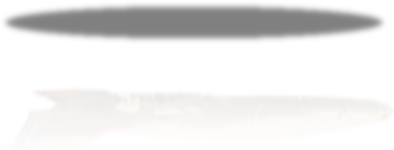
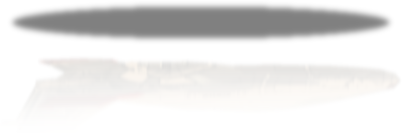
retrovega: smaller ships get smaller landing legs (full size from 24 m; the Redeemer's at 74%)
Claude-Session: https://claude.ai/code/session_019Nres1uExFzYT7oEr38LtM

Changed region(s): [[0.0, 0.0602, 0.9746, 0.3308], [0.0914, 0.4511, 0.9442, 0.6015]]

diff --git a/retrovega/tools/places.py b/retrovega/tools/places.py
@@ -62,8 +62,10 @@ LAUNCH = {'spool_ms': 600, 'lift_ms': 400, 'lift_px': 4, 'run_ms': 900}
 # the landing legs, in screen pixels: the least strut showing under a ship's
 # lowest point, the drawn leg's parts (a painted leg is scaled to the foot's
 # width), the least gap between two legs, how far a leg may move from its spot
-# to find the body
-SLED = {'strut_min': 4, 'foot': (84, 16), 'strut': 14, 'saddle': 66, 'apart': 60, 'reach': 90}
+# to find the body, the ship length (metres) from which legs are full size
+# (shorter ships get smaller legs, down to 60%)
+SLED = {'strut_min': 4, 'foot': (84, 16), 'strut': 14, 'saddle': 66, 'apart': 60, 'reach': 90,
+        'full_at': 24.0}
 RENDER = 1280      # the size the fighters are rendered at before scaling down
 BODY = 0.22        # a ship's body: its hull within this much of its half-span of the centre line
 
@@ -220,11 +222,14 @@ def lit(img, light):
     return Image.fromarray(np.clip(a, 0, 255).astype(np.uint8), 'RGBA')
 
 
-def fighter(ship, cfg, frame, cache, legs, rerender=False):
+def fighter(ship, cfg, frame, cache, legs_at, rerender=False):
     """A fighter on the pad: sprite, position, under layer, engine points, and
-    the legs it stands on (a style from leg_styles)."""
+    the legs it stands on: legs_at(foot width) gives its style at that size."""
     above, below, info = render_views(ship, cfg, cache, rerender)
     bb = above.getbbox()
+    length = (bb[2] - bb[0]) * info['metres']
+    leg_width = round(SLED['foot'][0] * min(1.0, max(0.6, length / SLED['full_at'])))
+    legs = legs_at(leg_width)
     s = cfg['metre'] * frame.k * info['metres']
     size = (round((bb[2] - bb[0]) * s), round((bb[3] - bb[1]) * s))
     sprite = hard(lit(premul_resize(above.crop(bb), size), cfg['light']))
@@ -239,6 +244,7 @@ def fighter(ship, cfg, frame, cache, legs, rerender=False):
     engines = nozzles(sprite, [(ey - bb[1]) * s for _ex, ey, _r in info['engines']])
     under, ux, uy = under_layer(below, s, x, size[0], cx, cy, deck, cfg['light'])
     return {'sprite': sprite, 'x': x, 'y': y, 'under': under, 'ux': ux, 'uy': uy, 'engines': engines,
+            'legs': legs, 'leg_width': leg_width,
             'sleds': sled_spots(sprite, body(ship, cfg, bb, size), x, y,
                                 [frame.xy(sx, 0)[0] for sx in cfg['sleds'] + cfg.get('more_sleds', {}).get(ship, [])],
                                 legs)}
@@ -285,24 +291,30 @@ def sled_spots(sprite, body, x, y, want, legs):
     return spots
 
 
-def leg_styles(light, src):
+def leg_styles(light, src, width=SLED['foot'][0]):
     """The landing legs, by style: each painted one in SRC/legs/STYLE.png
     (side on, transparent or white around it), or a drawn placeholder,
     'drawn', when there are none.  A style is its three parts the engine
     stacks (the foot on the deck, the strut repeated to the height it needs,
     the saddle under the hull, all the same width), where the strut's middle
     is (axis), how far down the saddle the hull rests (seat) and the span of
-    the saddle's top about the axis (top)."""
+    the saddle's top about the axis (top).  width is the foot's."""
     folder = os.path.join(src, 'legs')
     names = sorted(f[:-4] for f in os.listdir(folder) if f.endswith('.png')) if os.path.isdir(folder) else []
     styles = {}
     for name in names or ['drawn']:
-        parts = painted_leg(os.path.join(folder, name + '.png')) if names else drawn_leg()
+        if names:
+            parts = painted_leg(os.path.join(folder, name + '.png'), width)
+        else:
+            k = width / SLED['foot'][0]
+            parts = [premul_resize(p, (max(1, round(p.size[0] * k)), max(1, round(p.size[1] * k))))
+                     for p in drawn_leg()]
         parts = [hard(lit(p, [c / max(light) for c in light])) for p in parts]
         strut = np.nonzero(np.asarray(parts[1])[0, :, 3])[0]
         axis = int(round((strut[0] + strut[-1]) / 2))
         sa = np.asarray(parts[2])[..., 3] > 0
-        top = np.nonzero(sa[:3].any(axis=0))[0]
+        first = int(np.argmax(sa.any(axis=1)))
+        top = np.nonzero(sa[first:first + 3].any(axis=0))[0]
         styles[name] = {'parts': parts, 'axis': axis, 'seat': seat(sa, axis),
                         'top': (int(top[0]) - axis, int(top[-1]) - axis)}
     return styles
@@ -349,8 +361,8 @@ def drawn_leg():
             for p in (outline(foot), strut, outline(saddle))]
 
 
-def painted_leg(path):
-    """Slice a painted leg, scaled so its foot is SLED['foot'] wide: the
+def painted_leg(path, width):
+    """Slice a painted leg, scaled so its foot is width pixels wide: the
     strut is the longest run of rows at its narrowest width; the rows below
     are the foot, those above the saddle."""
     img = Image.open(path).convert('RGBA')
@@ -365,11 +377,14 @@ def painted_leg(path):
     img = img.crop(img.getbbox())
     rows = (np.asarray(img)[..., 3] > 0).sum(axis=1)
     foot = rows[-max(1, len(rows) // 10):].max()     # the widest row of the bottom tenth
-    k = SLED['foot'][0] / foot
+    k = width / foot
     img = premul_resize(img, (round(img.size[0] * k), round(img.size[1] * k)))
     a = np.asarray(img)[..., 3] >= 128
-    widths = a.sum(axis=1)
-    narrow = (widths > 0) & (widths <= widths[widths > 0].min() + 2)
+    # each row's extent, edge to edge (a cradle's top, two end blocks, is wide)
+    has = a.any(axis=1)
+    widths = np.where(has, a.shape[1] - np.argmax(a[:, ::-1], axis=1) - np.argmax(a, axis=1), 0)
+    narrow = has & (widths <= widths[has].min() + 2)
+    narrow[0] = narrow[-1] = False
     runs, start = [], None
     for y in range(len(narrow) + 1):
         if y < len(narrow) and narrow[y]:
@@ -556,21 +571,37 @@ def build(key, cfg, out, cache, rerender=False, log=print):
     ships = {}
     if 'fighter' in cfg:
         fc = cfg['fighter']
-        styles = leg_styles(fc['light'], src)
+        sizes = {}
+
+        def legs_at(width):
+            if width not in sizes:
+                sizes[width] = leg_styles(fc['light'], src, width)
+            return sizes[width]
+
         place['fighter'] = {'deck': round(frame.xy(0, fc['bottom'])[1]), 'ships': {}, 'legs': {}}
-        for name, st in styles.items():
+
+        def save_legs(name, st):
+            if name in place['fighter']['legs']:
+                return
             files = ['leg-%s-%s.png' % (name, part) for part in ('foot', 'strut', 'saddle')]
             for fn, part in zip(files, st['parts']):
                 part.save(os.path.join(od, fn))
             place['fighter']['legs'][name] = dict(zip(('foot', 'strut', 'saddle'), files),
                                                   axis=st['axis'], seat=st['seat'])
+
+        styles = legs_at(SLED['foot'][0])
+        for name, st in styles.items():
+            save_legs(name, st)
         place['launch'] = dict(LAUNCH)
         pick = fc.get('legs', {})
         for ship in deck_ships(fc['ships']):
             style = pick.get(ship, pick.get('default'))
             style = style if style in styles else next(iter(styles))
-            sh = fighter(ship, fc, frame, cache, styles[style], rerender)
-            sh['legs'], sh['style'], sh['deck'] = styles[style], style, place['fighter']['deck']
+            sh = fighter(ship, fc, frame, cache, lambda w, style=style: legs_at(w)[style], rerender)
+            # a smaller ship's legs: the style at its size, e.g. retract-58
+            sh['style'] = style if sh['leg_width'] == SLED['foot'][0] else '%s-%d' % (style, sh['leg_width'])
+            save_legs(sh['style'], sh['legs'])
+            sh['deck'] = place['fighter']['deck']
             ships[ship] = sh
             sh['sprite'].save(os.path.join(od, 'ship-%s.png' % ship))
             sh['under'].save(os.path.join(od, 'ship-%s-under.png' % ship))

diff --git a/retrovega/docs/places.md b/retrovega/docs/places.md
@@ -77,7 +77,7 @@ rest).
 - **Art:** each style is a painted picture, `art/places/src/deck/legs/STYLE.png`
   (the user's image synthesis, side on, on white). The tool slices each
   one and scales it so its foot is 84 px wide.
-- **Slicing:** the strut is the longest run of rows at its narrowest width
+- **Slicing:** the strut is the longest run of rows at its narrowest extent
   (the polished ram), the foot is everything below it, the saddle
   everything above. The engine stacks them, repeating the strut row to the
   height it needs (`leg-STYLE-foot/strut/saddle.png`). place.json gives
@@ -95,7 +95,10 @@ rest).
   hangs below the body all along, as on the Schroedinger's front half, the
   leg still goes to the body and rises behind the wing. A leg that would
   end up within 60 px of the other is left out.
-- **Height:** every ship's lowest point clears its style's shortest leg:
+- **Size:** legs are full size under ships of 24 m and more; a shorter
+  ship gets them smaller in proportion, down to 60% (the Redeemer, 18 m:
+  74%, saved as `retract-62`, its foot 62 px wide).
+- **Height:** every ship's lowest point clears its legs' shortest leg:
   the foot, the saddle and 4 rows of strut. On the gear legs that is about
   65 px, some 3 m.
 - **Placeholder:** without any painted legs the tool draws one, `drawn`.
